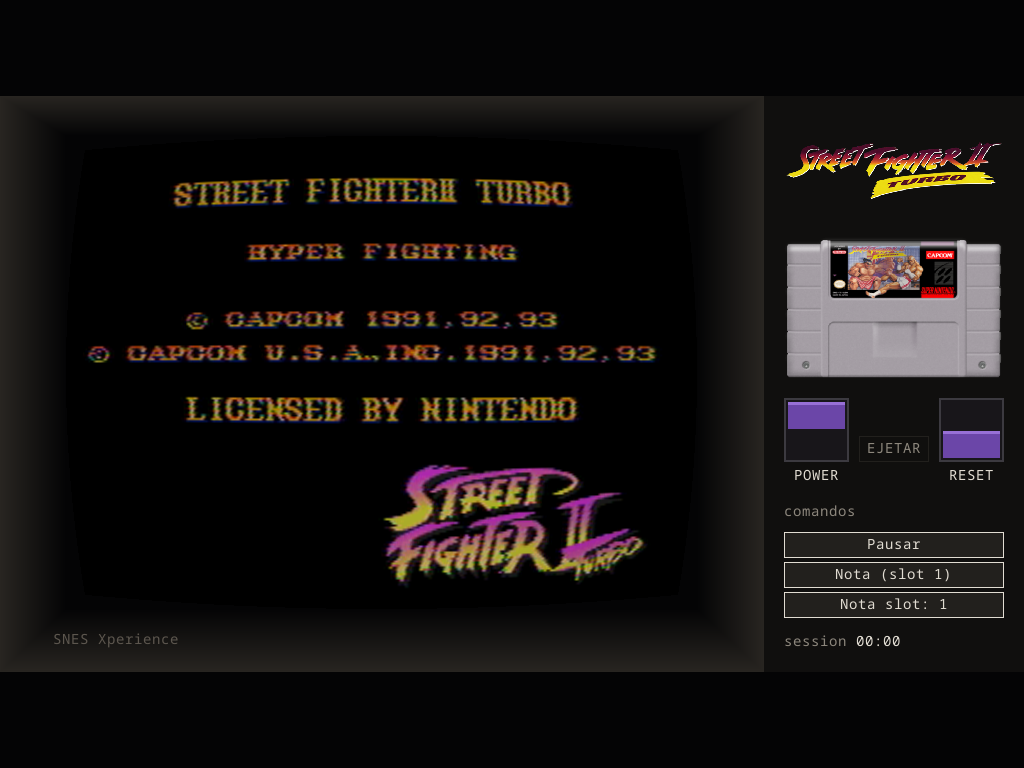
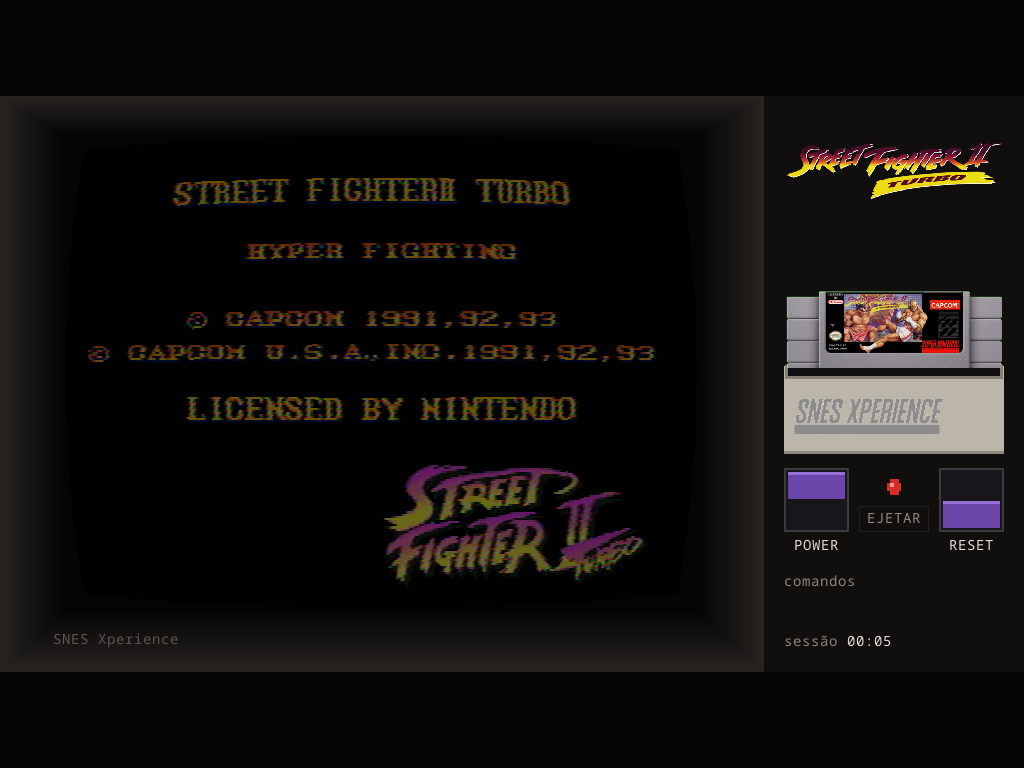
README resumido com novas capturas e gif do cartucho; console-tag tambem no runner
- README cortado pela metade: bullets compactos, imagens novas (gameplay,
  tela inicial e gif da animacao de inserir/ejetar no slot).
- Capturas geradas headless: gameplay real via emu-run --shot (Street
  Fighter II Turbo) e telas via exemplo cart_scene.
- Runner tambem carrega assets/console-tag.png (antes so o idle carregava,
  e um emu-run direto ficava sem a tag na base).

diff --git a/crates/platform/examples/cart_scene.rs b/crates/platform/examples/cart_scene.rs
@@ -70,11 +70,17 @@ fn main() -> Result<(), Box<dyn std::error::Error>> {
         }
         (w, h, rgba)
     });
-    // Optional third argument: the console tag as a raw file (same format),
-    // drawn on the slot's loading base like `assets/console-tag.png` does.
+    // Optional third/fourth arguments: the console tag and the idle brand
+    // logo as raw files (same format) — the real `assets/console-tag.png`
+    // and `assets/console.png` in the app.
     if let Some(tag_arg) = std::env::args().nth(3) {
         if let Some((tw, th, trgba)) = load_raw(&tag_arg) {
             cab.set_slot_tag(Some((tw, th, trgba.as_slice())));
+        }
+    }
+    if let Some(logo_arg) = std::env::args().nth(4) {
+        if let Some((lw, lh, lrgba)) = load_raw(&logo_arg) {
+            cab.set_console_logo(Some((lw, lh, lrgba.as_slice())));
         }
     }
     cab.set_panel(
@@ -84,22 +90,16 @@ fn main() -> Result<(), Box<dyn std::error::Error>> {
         &[(PanelButton::Power, "Ligar".into())],
     );
 
-    for (t, ejecting) in [
-        (0.0f32, false),
-        (0.25, false),
-        (0.5, false),
-        (0.75, false),
-        (1.0, false),
-        (0.25, true),
-        (0.5, true),
-        (0.75, true),
-        (1.0, true),
-    ] {
-        cab.set_cartridge_motion(Some((t, ejecting)));
-        let kind = if ejecting { "eject" } else { "insert" };
-        let name = out.join(format!("{kind}_{:02}.bmp", (t * 100.0) as i32));
-        cab.capture_static_bmp(0.0, &name)?;
-        println!("{}", name.display());
+    // 5% steps for both motions — dense enough to assemble a smooth GIF.
+    for ejecting in [false, true] {
+        for i in 0..=20usize {
+            let t = i as f32 / 20.0;
+            cab.set_cartridge_motion(Some((t, ejecting)));
+            let kind = if ejecting { "eject" } else { "insert" };
+            let name = out.join(format!("{kind}_{:02}.bmp", (t * 100.0) as i32));
+            cab.capture_static_bmp(0.0, &name)?;
+        }
+        println!("{} frames ok", if ejecting { "eject" } else { "insert" });
     }
 
     // The idle screen: panel dropped, the same slot block with the

diff --git a/crates/app/src/runner.rs b/crates/app/src/runner.rs
@@ -1108,6 +1108,18 @@ pub fn run_game(
         })
     };
     let logo_img = decode_panel_art(&spec.logo, "logo");
+    // Console tag wordmark on the slot's base (plan revision) — the same
+    // optional `assets/console-tag.png` the idle screen loads; reloaded here
+    // so a direct `emu-run`/game launch shows it too, file-gone removes it.
+    let tag_path = crate::dirs::assets_dir().join("console-tag.png");
+    let slot_tag = tag_path
+        .is_file()
+        .then(|| decode_art(&tag_path, 1024))
+        .transpose()
+        .map_err(|e| log::warn!("console tag {}: {e}", tag_path.display()))
+        .ok()
+        .flatten();
+    cab.set_slot_tag(slot_tag.as_ref().map(|(w, h, d)| (*w, *h, d.as_slice())));
     let cartridge_img = decode_panel_art(&spec.cartridge, "cartridge");
     let has_cartridge_art = cartridge_img.is_some();
     cab.set_panel(

diff --git a/README.md b/README.md
@@ -4,65 +4,44 @@ Emulador de SNES portátil com um console inteiro desenhado na tela —
 gabinete, tubo CRT e painel de controle de verdade — em vez de só uma
 janela com o jogo. Projeto pessoal, sem fins comerciais.
 
-![Painel lateral com logo, cartucho, chaves Power/Reset e comandos, tela rodando Street Fighter II Turbo](docs/img/screenshot.png)
+![Jogo rodando no tubo CRT com o painel lateral: logo, cartucho no slot e controles](docs/img/screenshot.png)
 
-## Funcionalidades
+## Como funciona
 
-- **Gabinete e tubo CRT de verdade**: filtro NTSC RF + moldura em volta da
-  tela, travada em 16:9 (faixas pretas nas laterais num monitor ultrawide,
-  em vez de esticar a imagem). Abre em tela cheia por padrão (desligável em
-  Configurações), com um botão de fechar no canto superior esquerdo — não
-  precisa da barra de título do sistema pra sair do app.
-- **Painel lateral estilo console**: logo, back cover e arte de cartucho do
-  jogo (rolam com botões "Cima"/"Baixo" quando não cabem juntos), Power e
-  Reset desenhados como chaves gangorra roxas — Power alterna de verdade
-  (liga/desliga e retoma de onde parou), Reset é momentâneo (sobe e desce
-  sozinho) — com Ejetar entre as duas, que só solta o cartucho com o
-  console desligado.
-- **Escolher um jogo insere o cartucho com animação** (desliza revelando
-  a arte, com um clique de encaixe) — o console não liga sozinho, igual ao
-  hardware de verdade; você clica Power quando quiser começar. Ejetar (com
-  o console desligado) faz o inverso.
-- **Estante com filtro de busca, "jogados recentemente" e histórico**:
-  digite pra filtrar por título; uma faixa acima da grade mostra os
-  últimos 5 jogos jogados; um botão "Histórico" lista todos os jogos com
-  tempo registrado, do mais jogado pro menos jogado.
-- **Tempo de jogo por jogo e por sessão**: o painel mostra quanto tempo
-  cada jogo já foi jogado no total (só contando com o console ligado, não
-  o tempo parado na tela de estática).
-- **Ano e editora de fábrica, sem precisar de DAT nenhum**: uma tabela
-  embutida no binário (derivada do [TOSEC](https://www.tosecdev.org/), só
-  os dois fatos — nunca o nome/descrição catalogados; ver
-  `THIRD-PARTY-NOTICES.md`) cobre a maioria das ROMs de SNES de saída; um
-  DAT No-Intro carregado tem prioridade quando concorda com a mesma
-  informação.
-- **Renomear ROMs para o padrão No-Intro**, um botão em Configurações —
-  usa o CRC32 contra o `nointro.dat` carregado; move save/anotação/cheat/
-  tempo de jogo e capa/logo/cartucho local associados junto, pra nada
-  ficar órfão.
-- **Só mouse e gamepad**: nenhum comando do console (power, reset, save
-  state, notas, menus...) usa teclado. A única exceção é escrever uma
-  anotação, que por natureza precisa de teclado; o D-pad/botões do próprio
-  SNES continuam por teclado por padrão pra quem joga sem controle.
-- **Anotacoes**: pausa o jogo e abre um livro de duas páginas — de um lado
-  o interruptor de cada cheat curado e um editor de texto livre (até 240
-  caracteres); do outro, 15 slots fixos de captura de tela por jogo, cada
-  um podendo ser **fixado** (evita sobrescrita) e **nomeado**.
-- **Printscreen, Salvar e Carregar abrem uma modal** pra escolher o slot
-  (e, no print, dar um nome) em vez de um contador pra clicar antes — sem
-  precisar entrar na tela de anotações pra isso.
-- **App portátil, sem instalação**: sem banco de dados nenhum — tudo em
-  pastas ao lado do executável (`roms/`, `core/`, `assets/`, `saves/`,
-  `notes/`), ou em `~/Documents/SNES Xperience` no macOS; `saves/` e
-  `notes/` organizam por jogo (`<pasta>/<título>/...`, nomes de arquivo
-  simples), não por hash da ROM.
-- **Sem raspagem online**: capa, logo, back cover e arte de cartucho vêm
-  de imagens que você mesmo solta em `assets/`; o nome canônico do jogo
-  vem de um DAT [No-Intro](https://datomatic.no-intro.org/) local
-  opcional.
-- **Núcleo baixa sozinho**: o `snes9x_libretro` vem do buildbot oficial do
-  libretro, direto do menu de configurações — não precisa procurar/copiar
-  o arquivo à mão.
+- **Escolher um jogo insere o cartucho de verdade**: a tela inicial é o
+  console com o slot vazio e um botão "Inserir cartucho"; o jogo entra na
+  estante, o cartucho desce e assenta no slot (gif abaixo), e o console só
+  liga quando você clicar em Power — igual ao hardware.
+- **Cartucho entra e sai com animação** no painel, com clique de encaixe e
+  de destravamento:
+
+![Cartucho entrando e saindo do slot do console](docs/img/cartucho.gif)
+
+- **Painel de console de verdade**: logo e back cover do jogo, chaves
+  Power/Reset roxas (Power retoma de onde parou; Reset é momentâneo) e
+  Ejetar, que só solta o cartucho com o console desligado.
+- **Tubo CRT de verdade**: filtro NTSC RF, travado em 16:9, tela cheia por
+  padrão (desligável) e botão de fechar no canto — sem barra de título.
+- **Estante com busca, "jogados recentemente" e histórico**, com tempo de
+  jogo por jogo (só contando com o console ligado) e por sessão.
+- **Ano e editora de fábrica, sem DAT nenhum**: tabela embutida no binário
+  (derivada do [TOSEC](https://www.tosecdev.org/)); um DAT
+  [No-Intro](https://datomatic.no-intro.org/) local tem prioridade quando
+  concorda, e um botão em Configurações renomeia as ROMs para o padrão
+  No-Intro movendo save/anotação/arte junto.
+- **Anotações**: pausa o jogo e abre um livro de duas páginas — cheats
+  curados ligados por checklist, nota de texto livre e 15 slots de captura
+  de tela fixáveis e nomeáveis. Printscreen/Salvar/Carregar abrem modais
+  próprios.
+- **Só mouse e gamepad** para tudo; a única exceção é escrever uma
+  anotação, que precisa de teclado por natureza.
+- **Portátil, sem banco de dados e sem raspagem online**: tudo em pastas
+  ao lado do executável (`roms/`, `core/`, `assets/`, `saves/`, `notes/`)
+  — capa, logo, cartucho, contracapa e o wordmark do console
+  (`console-tag.png`) vêm de imagens suas; o core snes9x baixa sozinho pelo
+  menu de configurações.
+
+![Tela inicial: console com o slot vazio, botão de inserir e controles apagados](docs/img/inicial.png)
 
 ## Baixar
 
@@ -72,39 +51,28 @@ aba [Releases](https://github.com/ticianocorral/snes-xperience/releases).
 
 ## Jogar
 
-Na primeira execução o app cria sozinho as pastas `roms/`, `core/`,
-`assets/{cover,logo,cartridge,backcover}/`, `saves/`, `notes/` e o arquivo
-`xperience.cfg`. Coloque suas ROMs em `roms/` e o core do snes9x
-(`snes9x_libretro.dylib`/`.so`/`.dll`) em `core/` — ou baixe-o direto pelo
-menu de configurações, se preferir.
+Na primeira execução o app cria sozinho as pastas em `~/Documents/SNES
+Xperience` (no macOS; no Windows/Linux, ao lado do executável). Coloque
+suas ROMs em `roms/` e o core do snes9x em `core/` — ou baixe-o direto
+pelo menu de configurações.
 
 ```bash
 cargo run --bin xperience
 ```
 
-Abre na tela inicial (que também é a tela de "cartucho ejetado" — a mesma
-depois de voltar da estante ou ejetar um jogo); clique em "Inserir
-cartucho" pra abrir a estante. Sem capa nenhuma em `assets/cover/`, a
-estante vira uma lista numerada; solte um `<nome-da-rom>.png` (mesmo nome
-do arquivo, sem extensão) em `assets/cover/`, `assets/logo/`,
-`assets/cartridge/` ou `assets/backcover/` pra dar capa/logo/cartucho/
-contracapa a um jogo — capas são desenhadas em paisagem, arte de frente
-horizontal.
-
-Um `nointro.dat` (DAT XML do No-Intro, "Nintendo - Super Nintendo
-Entertainment System") na raiz do app dá o nome canônico do jogo em vez
-do nome interno do cabeçalho ou do arquivo — opcional, baixe você mesmo,
-o app não busca isso sozinho.
+Clique em "Inserir cartucho" para abrir a estante. Solte um
+`<nome-da-rom>.png` (mesmo nome do arquivo, sem extensão) em
+`assets/{cover,logo,cartridge,backcover}/` para dar arte a um jogo — capas
+são desenhadas em paisagem. Um `nointro.dat` (DAT XML do No-Intro) na raiz
+do app dá o nome canônico dos jogos — opcional, baixe você mesmo.
 
 ## Compilar
 
 Precisa de Rust estável e do SDL3.
 
 ```bash
-# macOS
-brew install sdl3
-cargo build
-cargo test
+brew install sdl3   # macOS
+cargo build && cargo test
 ```
 
 Sem SDL3 no sistema, compile-o junto (precisa de CMake + toolchain C):
@@ -113,8 +81,7 @@ Sem SDL3 no sistema, compile-o junto (precisa de CMake + toolchain C):
 cargo build --features xperience-platform/vendored-sdl
 ```
 
-`emu-run` roda uma ROM solta sem o resto do app (idle/estante/config) —
-útil pra testar o core isoladamente:
+`emu-run` roda uma ROM solta sem o resto do app:
 
 ```bash
 cargo run --bin emu-run -- --core caminho/snes9x_libretro.dylib --rom jogo.sfc
@@ -127,31 +94,22 @@ Nenhum core ou ROM é distribuído com o projeto — ver
 
 Quatro camadas, dependências só para baixo:
 
-| Camada       | Crate                  | Responsabilidade                                                                          |
-| ------------ | ---------------------- | ------------------------------------------------------------------------------------------ |
-| Apresentação | `xperience-app`        | binários (`xperience`, `emu-run`, `selector`) + `runner`/`shelf`/`settings`/`core_update`/`rom_rename`/`update_check`   |
-| Domínio      | `xperience-domain`     | identificação de ROM, catálogo (JSON, sem banco), nomeação por DAT No-Intro, ano/editora embutidos (TOSEC)                 |
-| Emulação     | `xperience-emulation`  | core libretro carregado em runtime, laço de execução                                       |
-| Plataforma   | `xperience-platform`   | SDL3: o `Cabinet` (janela única — gabinete, tubo CRT, seletor), áudio, gamepad              |
+| Camada       | Crate                 | Responsabilidade                                                        |
+| ------------ | --------------------- | ----------------------------------------------------------------------- |
+| Apresentação | `xperience-app`       | binários (`xperience`, `emu-run`, `selector`) + `runner`/`shelf`/`settings` |
+| Domínio      | `xperience-domain`    | identificação de ROM, catálogo (JSON), DAT No-Intro, TOSEC               |
+| Emulação     | `xperience-emulation` | core libretro carregado em runtime, laço de execução                     |
+| Plataforma   | `xperience-platform`  | SDL3: o `Cabinet` (gabinete, tubo CRT, painel), áudio, gamepad           |
 
 `xperience-ntsc` é um crate folha à parte (o `snes_ntsc` do blargg,
-vendorizado). A camada de emulação não sabe que existe uma moldura; a de
-plataforma não conhece o core.
-
-Para o histórico completo de implementação, fase a fase, ver
+vendorizado). Para o histórico completo de implementação, ver
 [`docs/plano-emulador-moldura.md`](docs/plano-emulador-moldura.md) e
 `docs/fase-0.md` … `docs/fase-4.md`.
 
-## Versionamento
+## Versionamento e licenças
 
-Segue [SemVer 2.0.0](https://semver.org/lang/pt-BR/). Todo o workspace
-compartilha uma versão (`[workspace.package]` em `Cargo.toml`); cada
-release é uma tag `vX.Y.Z` e um item no [`CHANGELOG.md`](CHANGELOG.md).
-Enquanto for `0.x`, a API das crates e as flags de linha de comando podem
-mudar entre _minors_.
-
-## Licenças de terceiros
-
-Ver [`THIRD-PARTY-NOTICES.md`](THIRD-PARTY-NOTICES.md). Ao distribuir um
-binário que carrega o core do snes9x, o texto da licença dele precisa
-acompanhar.
+[SemVer 2.0.0](https://semver.org/lang/pt-BR/): todo o workspace
+compartilha uma versão (`[workspace.package]` em `Cargo.toml`), cada
+release é uma tag `vX.Y.Z` e um item no
+[`CHANGELOG.md`](CHANGELOG.md). Licenças de terceiros em
+[`THIRD-PARTY-NOTICES.md`](THIRD-PARTY-NOTICES.md).
